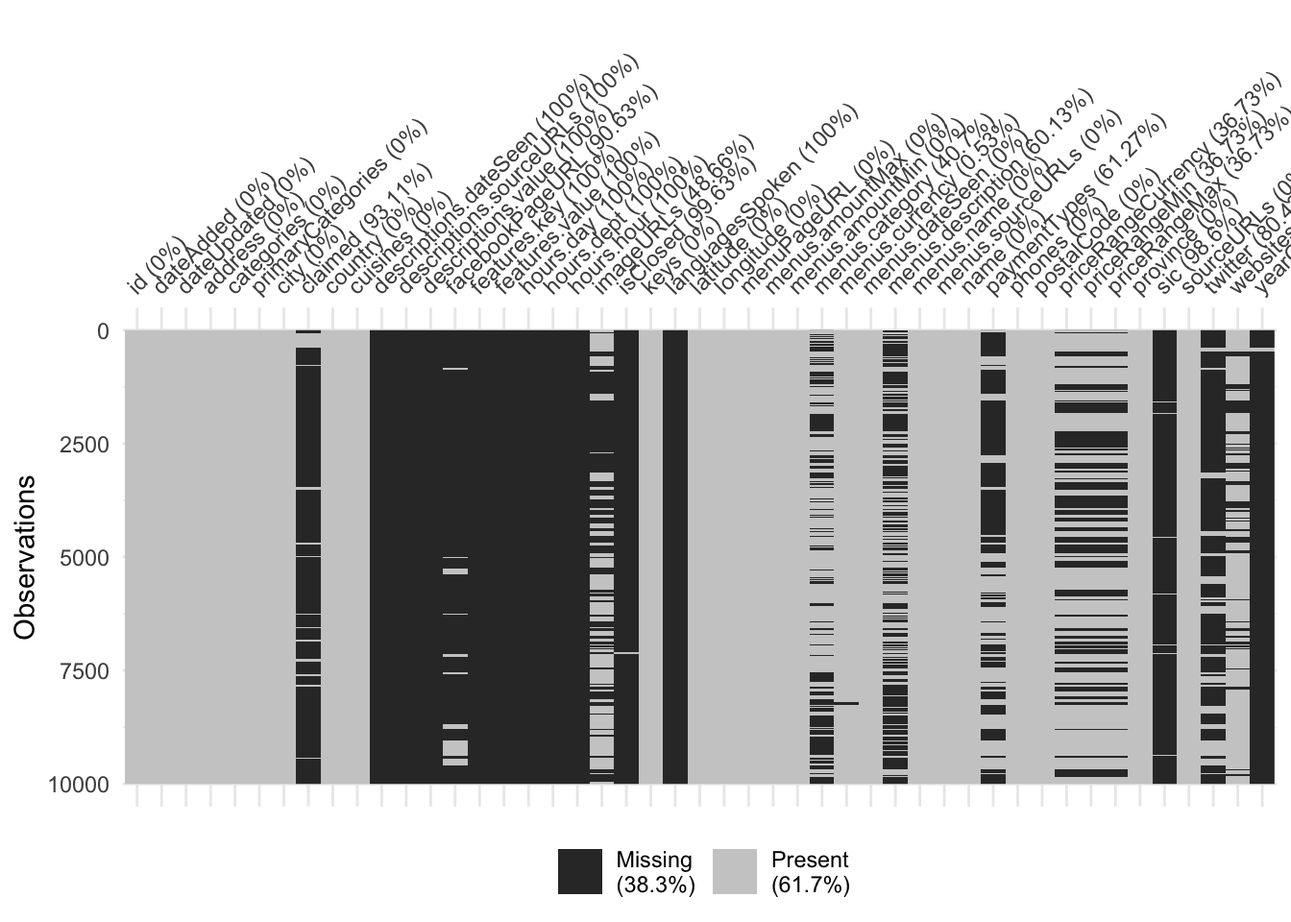
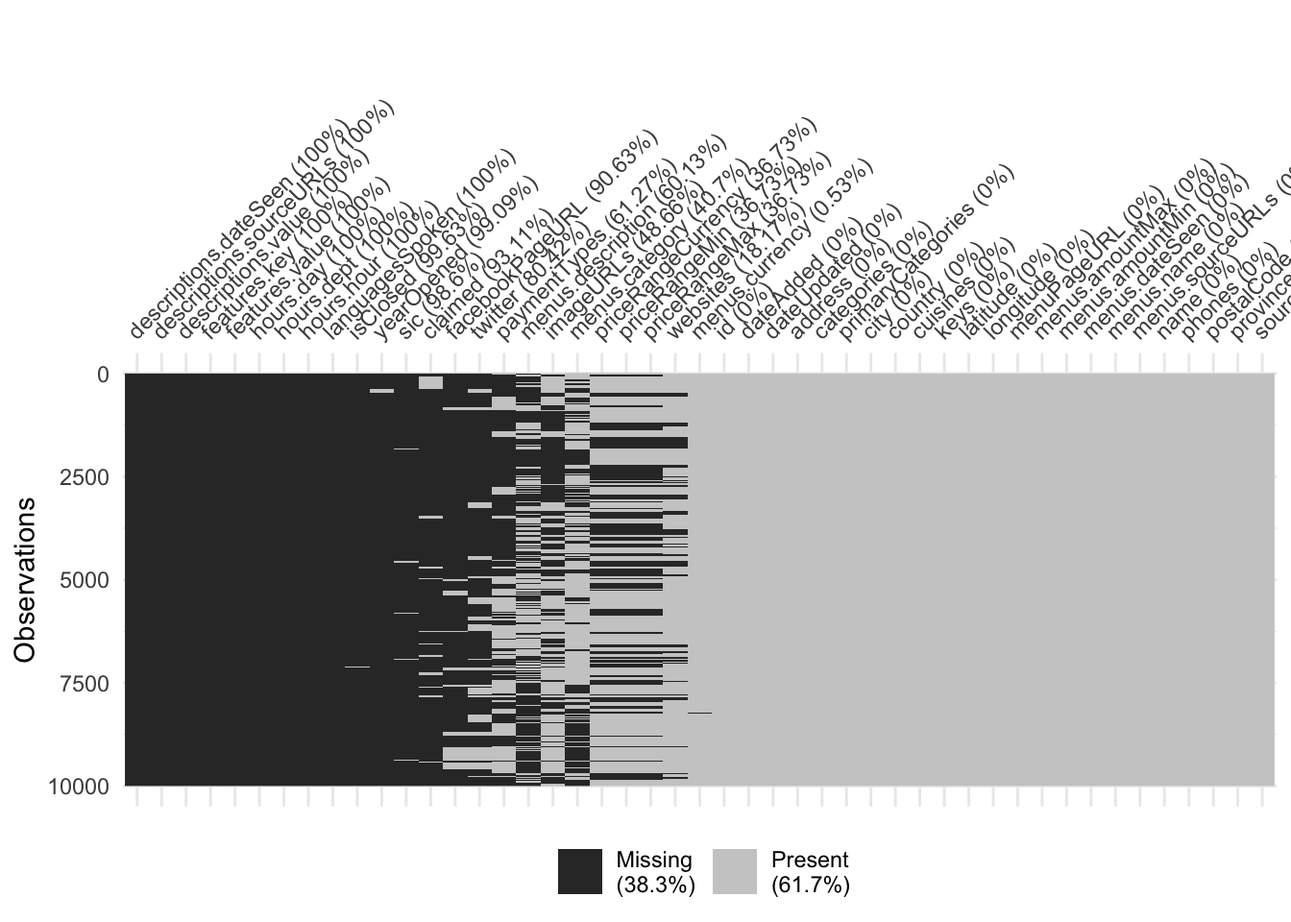
Cleaning up missing values chapter

Changed region(s): [[0.0, 0.0625, 1.0, 0.875], [0.75, 0.6875, 0.7812, 0.875], [0.625, 0.625, 0.6562, 0.6562]]

diff --git a/docs/missing-values.html b/docs/missing-values.html
@@ -24,7 +24,7 @@
 <meta name="author" content="Sai Krupa Jangala, Kailande Cassamajor" />
 
 
-<meta name="date" content="2021-11-16" />
+<meta name="date" content="2021-11-17" />
 
   <meta name="viewport" content="width=device-width, initial-scale=1" />
   <meta name="apple-mobile-web-app-capable" content="yes" />
@@ -268,253 +268,12 @@
 ## [129,] &quot;menus.category&quot;          &quot;menus.currency&quot;    
 ## [130,] &quot;twitter&quot;                 &quot;websites&quot;</code></pre>
 <p><img src="finalproj_files/figure-html/unnamed-chunk-8-1.png" width="672" /></p>
-<pre><code>##                                                                                                                                    claimed, isClosed 
-##                                                                                                                                                    4 
-##                                                                                                                               isClosed, sic, twitter 
-##                                                                                                                                                   20 
-##                                                                                                                               claimed, isClosed, sic 
-##                                                                                                                                                   42 
-##                                                                                                                       facebookPageURL, isClosed, sic 
-##                                                                                                                                                    3 
-##                                                                                                                    claimed, isClosed, menus.category 
-##                                                                                                                                                    4 
-##                                                                                                                 claimed, isClosed, menus.description 
-##                                                                                                                                                    2 
-##                                                                                                                    claimed, imageURLs, isClosed, sic 
-##                                                                                                                                                   59 
-##                                                                                                              claimed, facebookPageURL, isClosed, sic 
-##                                                                                                                                                  166 
-##                                                                                                              facebookPageURL, isClosed, sic, twitter 
-##                                                                                                                                                   80 
-##                                                                                                     claimed, facebookPageURL, isClosed, paymentTypes 
-##                                                                                                                                                    6 
-##                                                                                                               claimed, isClosed, menus.category, sic 
-##                                                                                                                                                   91 
-##                                                                                                            claimed, isClosed, menus.description, sic 
-##                                                                                                                                                   79 
-##                                                                                                    facebookPageURL, isClosed, menus.description, sic 
-##                                                                                                                                                   36 
-##                                                                                                 claimed, isClosed, menus.category, menus.description 
-##                                                                                                                                                   12 
-##                                                                                                     claimed, facebookPageURL, isClosed, sic, twitter 
-##                                                                                                                                                  327 
-##                                                                                                facebookPageURL, isClosed, paymentTypes, sic, twitter 
-##                                                                                                                                                   77 
-##                                                                                                claimed, facebookPageURL, isClosed, paymentTypes, sic 
-##                                                                                                                                                  144 
-##                                                                                           claimed, facebookPageURL, isClosed, menus.description, sic 
-##                                                                                                                                                  105 
-##                                                                                           facebookPageURL, isClosed, menus.description, sic, twitter 
-##                                                                                                                                                   53 
-##                                                                                                           claimed, imageURLs, isClosed, sic, twitter 
-##                                                                                                                                                  120 
-##                                                                                              claimed, facebookPageURL, isClosed, menus.category, sic 
-##                                                                                                                                                   39 
-##                                                                                                   claimed, facebookPageURL, imageURLs, isClosed, sic 
-##                                                                                                                                                   11 
-##                                                                                  claimed, facebookPageURL, isClosed, menus.description, paymentTypes 
-##                                                                                                                                                    1 
-##                                                                                            claimed, isClosed, menus.category, menus.description, sic 
-##                                                                                                                                                  464 
-##                                                                                              facebookPageURL, isClosed, menus.category, sic, twitter 
-##                                                                                                                                                    3 
-##                                                                                  claimed, facebookPageURL, isClosed, menus.description, sic, twitter 
-##                                                                                                                                                  190 
-##                                                                             facebookPageURL, isClosed, menus.description, paymentTypes, sic, twitter 
-##                                                                                                                                                  127 
-##                                                                                       claimed, facebookPageURL, isClosed, paymentTypes, sic, twitter 
-##                                                                                                                                                  303 
-##                                                                                 claimed, facebookPageURL, imageURLs, isClosed, paymentTypes, twitter 
-##                                                                                                                                                   17 
-##                                                                                          claimed, facebookPageURL, imageURLs, isClosed, sic, twitter 
-##                                                                                                                                                  129 
-##                                                                             claimed, facebookPageURL, isClosed, menus.description, paymentTypes, sic 
-##                                                                                                                                                   37 
-##                                                                                claimed, facebookPageURL, isClosed, menus.category, paymentTypes, sic 
-##                                                                                                                                                   15 
-##                                                                                facebookPageURL, isClosed, priceRangeMin, priceRangeMax, sic, twitter 
-##                                                                                                                                                   31 
-##                                                                                        claimed, imageURLs, isClosed, menus.description, sic, twitter 
-##                                                                                                                                                   38 
-##                                                                           claimed, facebookPageURL, isClosed, menus.category, menus.description, sic 
-##                                                                                                                                                  206 
-##                                                                                claimed, facebookPageURL, imageURLs, isClosed, menus.description, sic 
-##                                                                                                                                                    6 
-##                                                                  claimed, facebookPageURL, isClosed, menus.category, menus.description, paymentTypes 
-##                                                                                                                                                    8 
-##                                                                           facebookPageURL, isClosed, menus.category, menus.description, sic, twitter 
-##                                                                                                                                                   53 
-##                                                             facebookPageURL, isClosed, menus.category, menus.description, paymentTypes, sic, twitter 
-##                                                                                                                                                  164 
-##                                                             claimed, facebookPageURL, isClosed, menus.category, menus.description, paymentTypes, sic 
-##                                                                                                                                                  391 
-##                                                                  claimed, facebookPageURL, isClosed, menus.category, menus.description, sic, twitter 
-##                                                                                                                                                  547 
-##                                                                            claimed, facebookPageURL, imageURLs, isClosed, paymentTypes, sic, twitter 
-##                                                                                                                                                  287 
-##                                                                       claimed, facebookPageURL, imageURLs, isClosed, paymentTypes, twitter, websites 
-##                                                                                                                                                   22 
-##                                                              claimed, facebookPageURL, imageURLs, isClosed, menus.description, paymentTypes, twitter 
-##                                                                                                                                                    3 
-##                                                                       claimed, facebookPageURL, isClosed, priceRangeMin, priceRangeMax, sic, twitter 
-##                                                                                                                                                   99 
-##                                                                    claimed, facebookPageURL, isClosed, menus.description, paymentTypes, sic, twitter 
-##                                                                                                                                                  220 
-##                                                                          claimed, facebookPageURL, imageURLs, isClosed, menus.category, sic, twitter 
-##                                                                                                                                                   20 
-##                                                             facebookPageURL, isClosed, menus.description, priceRangeMin, priceRangeMax, sic, twitter 
-##                                                                                                                                                   19 
-##                                                                       claimed, facebookPageURL, isClosed, menus.category, paymentTypes, sic, twitter 
-##                                                                                                                                                   18 
-##                                                                       claimed, facebookPageURL, imageURLs, isClosed, menus.description, sic, twitter 
-##                                                                                                                                                   15 
-##                                                                        claimed, imageURLs, isClosed, menus.category, menus.description, sic, twitter 
-##                                                                                                                                                    2 
-##                                                                 claimed, facebookPageURL, imageURLs, isClosed, priceRangeMin, priceRangeMax, twitter 
-##                                                                                                                                                    9 
-##                                                                claimed, facebookPageURL, imageURLs, isClosed, menus.category, menus.description, sic 
-##                                                                                                                                                    9 
-##                                                                claimed, facebookPageURL, isClosed, menus.category, priceRangeMin, priceRangeMax, sic 
-##                                                                                                                                                    2 
-##                                                            claimed, facebookPageURL, imageURLs, isClosed, priceRangeMin, priceRangeMax, sic, twitter 
-##                                                                                                                                                  123 
-##                                                         claimed, facebookPageURL, imageURLs, isClosed, menus.description, paymentTypes, sic, twitter 
-##                                                                                                                                                  164 
-##                                                                  claimed, facebookPageURL, imageURLs, isClosed, paymentTypes, sic, twitter, websites 
-##                                                                                                                                                   56 
-##                                                       claimed, facebookPageURL, imageURLs, isClosed, menus.category, menus.description, sic, twitter 
-##                                                                                                                                                  161 
-##                                                         claimed, facebookPageURL, isClosed, paymentTypes, priceRangeMin, priceRangeMax, sic, twitter 
-##                                                                                                                                                  245 
-##                                             facebookPageURL, isClosed, menus.category, menus.description, priceRangeMin, priceRangeMax, sic, twitter 
-##                                                                                                                                                   23 
-##                                                    claimed, facebookPageURL, isClosed, menus.description, priceRangeMin, priceRangeMax, sic, twitter 
-##                                                                                                                                                   75 
-##                                                    claimed, facebookPageURL, isClosed, menus.category, menus.description, paymentTypes, sic, twitter 
-##                                                                                                                                                  383 
-##                                              claimed, facebookPageURL, imageURLs, isClosed, menus.description, priceRangeMin, priceRangeMax, twitter 
-##                                                                                                                                                    6 
-##                                                             claimed, facebookPageURL, isClosed, priceRangeMin, priceRangeMax, sic, twitter, websites 
-##                                                                                                                                                   10 
-##                                                        claimed, facebookPageURL, imageURLs, paymentTypes, priceRangeMin, priceRangeMax, sic, twitter 
-##                                                                                                                                                   17 
-##                                          claimed, facebookPageURL, imageURLs, menus.description, paymentTypes, priceRangeMin, priceRangeMax, twitter 
-##                                                                                                                                                   16 
-##                                             claimed, facebookPageURL, isClosed, menus.category, menus.description, priceRangeMin, priceRangeMax, sic 
-##                                                                                                                                                   16 
-##                                                       claimed, facebookPageURL, isClosed, menus.category, priceRangeMin, priceRangeMax, sic, twitter 
-##                                                                                                                                                    3 
-##                                                            claimed, facebookPageURL, imageURLs, isClosed, menus.category, paymentTypes, sic, twitter 
-##                                                                                                                                                   19 
-##                                         claimed, facebookPageURL, isClosed, menus.category, paymentTypes, priceRangeMin, priceRangeMax, sic, twitter 
-##                                                                                                                                                    8 
-##                                              claimed, facebookPageURL, imageURLs, isClosed, paymentTypes, priceRangeMin, priceRangeMax, sic, twitter 
-##                                                                                                                                                  440 
-##                                         claimed, facebookPageURL, imageURLs, isClosed, menus.description, priceRangeMin, priceRangeMax, sic, twitter 
-##                                                                                                                                                   92 
-##                                         claimed, facebookPageURL, imageURLs, isClosed, menus.category, menus.description, paymentTypes, sic, twitter 
-##                                                                                                                                                  748 
-##                                               claimed, facebookPageURL, isClosed, paymentTypes, priceRangeMin, priceRangeMax, sic, twitter, websites 
-##                                                                                                                                                    1 
-##                                      claimed, facebookPageURL, isClosed, menus.description, paymentTypes, priceRangeMin, priceRangeMax, sic, twitter 
-##                                                                                                                                                  111 
-##                                         claimed, facebookPageURL, imageURLs, isClosed, paymentTypes, priceRangeMin, priceRangeMax, twitter, websites 
-##                                                                                                                                                   12 
-##                                               claimed, facebookPageURL, imageURLs, isClosed, menus.description, paymentTypes, sic, twitter, websites 
-##                                                                                                                                                    3 
-##                                                  claimed, facebookPageURL, imageURLs, isClosed, priceRangeMin, priceRangeMax, sic, twitter, websites 
-##                                                                                                                                                  112 
-##                          claimed, facebookPageURL, imageURLs, menus.category, menus.description, paymentTypes, priceRangeMin, priceRangeMax, twitter 
-##                                                                                                                                                    4 
-##                                            claimed, facebookPageURL, imageURLs, isClosed, menus.category, priceRangeMin, priceRangeMax, sic, twitter 
-##                                                                                                                                                    5 
-##                                    claimed, facebookPageURL, isClosed, menus.category, menus.description, priceRangeMin, priceRangeMax, sic, twitter 
-##                                                                                                                                                    5 
-##                      claimed, facebookPageURL, isClosed, menus.category, menus.description, paymentTypes, priceRangeMin, priceRangeMax, sic, twitter 
-##                                                                                                                                                   66 
-##                           claimed, facebookPageURL, imageURLs, isClosed, menus.description, paymentTypes, priceRangeMin, priceRangeMax, sic, twitter 
-##                                                                                                                                                  257 
-##                                    claimed, facebookPageURL, imageURLs, isClosed, paymentTypes, priceRangeMin, priceRangeMax, sic, twitter, websites 
-##                                                                                                                                                  782 
-##                               claimed, facebookPageURL, imageURLs, isClosed, menus.category, menus.description, paymentTypes, sic, twitter, websites 
-##                                                                                                                                                   18 
-##                      claimed, facebookPageURL, imageURLs, isClosed, menus.description, paymentTypes, priceRangeMin, priceRangeMax, twitter, websites 
-##                                                                                                                                                   14 
-##                                  claimed, facebookPageURL, imageURLs, isClosed, menus.category, priceRangeMin, priceRangeMax, sic, twitter, websites 
-##                                                                                                                                                    6 
-##                               claimed, facebookPageURL, imageURLs, isClosed, menus.description, priceRangeMin, priceRangeMax, sic, twitter, websites 
-##                                                                                                                                                   64 
-##                         claimed, facebookPageURL, imageURLs, isClosed, menus.category, menus.description, priceRangeMin, priceRangeMax, sic, twitter 
-##                                                                                                                                                   60 
-##           claimed, facebookPageURL, imageURLs, isClosed, menus.category, menus.description, paymentTypes, priceRangeMin, priceRangeMax, sic, twitter 
-##                                                                                                                                                  223 
-##                 claimed, facebookPageURL, imageURLs, isClosed, menus.description, paymentTypes, priceRangeMin, priceRangeMax, sic, twitter, websites 
-##                                                                                                                                                  443 
-##               claimed, facebookPageURL, imageURLs, isClosed, menus.category, menus.description, priceRangeMin, priceRangeMax, sic, twitter, websites 
-##                                                                                                                                                   17 
-## claimed, facebookPageURL, imageURLs, isClosed, menus.category, menus.description, paymentTypes, priceRangeMin, priceRangeMax, sic, twitter, websites 
-##                                                                                                                                                  257</code></pre>
 <div id="missing-by-borough" class="section level4" number="4.0.0.1">
 <h4><span class="header-section-number">4.0.0.1</span> Missing by borough</h4>
-<pre><code>## # A tibble: 81 × 4
-##    Borough       num_restaurants num_na_claimed percent_na
-##    &lt;chr&gt;                   &lt;int&gt;          &lt;int&gt;      &lt;dbl&gt;
-##  1 Albany                      5              5          1
-##  2 Astoria                    60             60          1
-##  3 Atlanta                     5              5          1
-##  4 Austin                    138            138          1
-##  5 Bellerose                  64             64          1
-##  6 Beverly Hills             141            141          1
-##  7 Boston                     22             22          1
-##  8 Brooklyn                 1188           1188          1
-##  9 Canoga Park                31             31          1
-## 10 Carrboro                   18             18          1
-## # … with 71 more rows</code></pre>
-<pre><code>## # A tibble: 81 × 4
-##    Borough         num_restaurants num_na_menus_currency percent_na
-##    &lt;chr&gt;                     &lt;int&gt;                 &lt;int&gt;      &lt;dbl&gt;
-##  1 Carrboro                     18                    10       0.56
-##  2 Minnetonka                   65                    33       0.51
-##  3 Rancho Santa Fe              22                    10       0.45
-##  4 Albany                        5                     0       0   
-##  5 Arlington                    32                     0       0   
-##  6 Asbury Park                  42                     0       0   
-##  7 Astoria                      60                     0       0   
-##  8 Atlanta                       5                     0       0   
-##  9 Austin                      138                     0       0   
-## 10 Bellerose                    64                     0       0   
-## # … with 71 more rows</code></pre>
-<pre><code>##  [1] &quot;Albany&quot;              &quot;San Diego&quot;           &quot;New York&quot;           
-##  [4] &quot;Houston&quot;             &quot;Brooklyn&quot;            &quot;Long Island City&quot;   
-##  [7] &quot;Astoria&quot;             &quot;Jackson Heights&quot;     &quot;Torrance&quot;           
-## [10] &quot;San Francisco&quot;       &quot;Los Angeles&quot;         &quot;Concord&quot;            
-## [13] &quot;Chicago&quot;             &quot;College Point&quot;       &quot;Bellerose&quot;          
-## [16] &quot;Glen Oaks&quot;           &quot;Austin&quot;              &quot;Phoenix&quot;            
-## [19] &quot;Canoga Park&quot;         &quot;Tempe&quot;               &quot;Richmond&quot;           
-## [22] &quot;Newport Beach&quot;       &quot;Salt Lake City&quot;      &quot;Encino&quot;             
-## [25] &quot;Hollywood&quot;           &quot;Escondido&quot;           &quot;Vienna&quot;             
-## [28] &quot;Westmont&quot;            &quot;Boston&quot;              &quot;Pittsburgh&quot;         
-## [31] &quot;Woodside&quot;            &quot;Santa Fe&quot;            &quot;Miami&quot;              
-## [34] &quot;Beverly Hills&quot;       &quot;Diamond Bar&quot;         &quot;Berkeley&quot;           
-## [37] &quot;Champaign&quot;           &quot;Evanston&quot;            &quot;South Richmond Hill&quot;
-## [40] &quot;Wellesley Hills&quot;     &quot;Charlotte&quot;           &quot;Penfield&quot;           
-## [43] &quot;Warren&quot;              &quot;Napa&quot;                &quot;Redmond&quot;            
-## [46] &quot;Glendale&quot;            &quot;Overland Park&quot;       &quot;Atlanta&quot;            
-## [49] &quot;Santa Clara&quot;         &quot;Nashville&quot;           &quot;Carson&quot;             
-## [52] &quot;Raleigh&quot;             &quot;Waltham&quot;             &quot;Seattle&quot;            
-## [55] &quot;Asbury Park&quot;         &quot;Cambridge&quot;           &quot;Tahoe City&quot;         
-## [58] &quot;Portland&quot;            &quot;Dallas&quot;              &quot;San Jose&quot;           
-## [61] &quot;Tucson&quot;              &quot;Neenah&quot;              &quot;Arlington&quot;          
-## [64] &quot;Minneapolis&quot;         &quot;Kew Gardens&quot;         &quot;Cary&quot;               
-## [67] &quot;Philadelphia&quot;        &quot;Flushing&quot;            &quot;Kƒ´hei&quot;             
-## [70] &quot;Minnetonka&quot;          &quot;Olympia&quot;             &quot;Miami Beach&quot;        
-## [73] &quot;Key West&quot;            &quot;Rancho Santa Fe&quot;     &quot;Manistee&quot;           
-## [76] &quot;Jamaica&quot;             &quot;Carrboro&quot;            &quot;Skowhegan&quot;          
-## [79] &quot;Reno&quot;                &quot;Walnut Creek&quot;        &quot;Santa Rosa Beach&quot;</code></pre>
 </div>
 <div id="number-missing-by-city" class="section level4" number="4.0.0.2">
 <h4><span class="header-section-number">4.0.0.2</span> Number missing by city</h4>
-<p><img src="finalproj_files/figure-html/unnamed-chunk-14-1.png" width="1440" /></p>
+<p><img src="finalproj_files/figure-html/unnamed-chunk-13-1.png" width="1440" /></p>
 
 </div>
 </div>

diff --git a/docs/index.html b/docs/index.html
@@ -24,7 +24,7 @@
 <meta name="author" content="Sai Krupa Jangala, Kailande Cassamajor" />
 
 
-<meta name="date" content="2021-11-16" />
+<meta name="date" content="2021-11-17" />
 
   <meta name="viewport" content="width=device-width, initial-scale=1" />
   <meta name="apple-mobile-web-app-capable" content="yes" />
@@ -102,7 +102,7 @@
 <div id="header">
 <h1 class="title">Vegan Planet</h1>
 <p class="author"><em>Sai Krupa Jangala, Kailande Cassamajor</em></p>
-<p class="date"><em>2021-11-16</em></p>
+<p class="date"><em>2021-11-17</em></p>
 </div>
 <div id="introduction" class="section level1" number="1">
 <h1><span class="header-section-number">Chapter 1</span> Introduction</h1>

diff --git a/docs/404.html b/docs/404.html
@@ -24,7 +24,7 @@
 <meta name="author" content="Sai Krupa Jangala, Kailande Cassamajor" />
 
 
-<meta name="date" content="2021-11-16" />
+<meta name="date" content="2021-11-17" />
 
   <meta name="viewport" content="width=device-width, initial-scale=1" />
   <meta name="apple-mobile-web-app-capable" content="yes" />

diff --git a/docs/conclusion.html b/docs/conclusion.html
@@ -24,7 +24,7 @@
 <meta name="author" content="Sai Krupa Jangala, Kailande Cassamajor" />
 
 
-<meta name="date" content="2021-11-16" />
+<meta name="date" content="2021-11-17" />
 
   <meta name="viewport" content="width=device-width, initial-scale=1" />
   <meta name="apple-mobile-web-app-capable" content="yes" />

diff --git a/docs/data-sources.html b/docs/data-sources.html
@@ -24,7 +24,7 @@
 <meta name="author" content="Sai Krupa Jangala, Kailande Cassamajor" />
 
 
-<meta name="date" content="2021-11-16" />
+<meta name="date" content="2021-11-17" />
 
   <meta name="viewport" content="width=device-width, initial-scale=1" />
   <meta name="apple-mobile-web-app-capable" content="yes" />

diff --git a/docs/data-transformation.html b/docs/data-transformation.html
@@ -24,7 +24,7 @@
 <meta name="author" content="Sai Krupa Jangala, Kailande Cassamajor" />
 
 
-<meta name="date" content="2021-11-16" />
+<meta name="date" content="2021-11-17" />
 
   <meta name="viewport" content="width=device-width, initial-scale=1" />
   <meta name="apple-mobile-web-app-capable" content="yes" />

diff --git a/docs/interactive-component.html b/docs/interactive-component.html
@@ -24,7 +24,7 @@
 <meta name="author" content="Sai Krupa Jangala, Kailande Cassamajor" />
 
 
-<meta name="date" content="2021-11-16" />
+<meta name="date" content="2021-11-17" />
 
   <meta name="viewport" content="width=device-width, initial-scale=1" />
   <meta name="apple-mobile-web-app-capable" content="yes" />

diff --git a/docs/results.html b/docs/results.html
@@ -24,7 +24,7 @@
 <meta name="author" content="Sai Krupa Jangala, Kailande Cassamajor" />
 
 
-<meta name="date" content="2021-11-16" />
+<meta name="date" content="2021-11-17" />
 
   <meta name="viewport" content="width=device-width, initial-scale=1" />
   <meta name="apple-mobile-web-app-capable" content="yes" />
